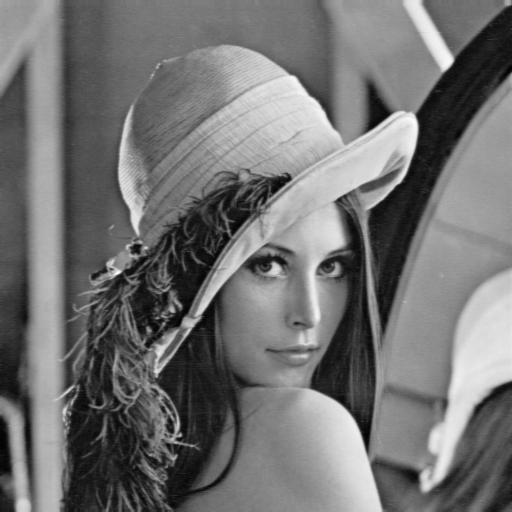
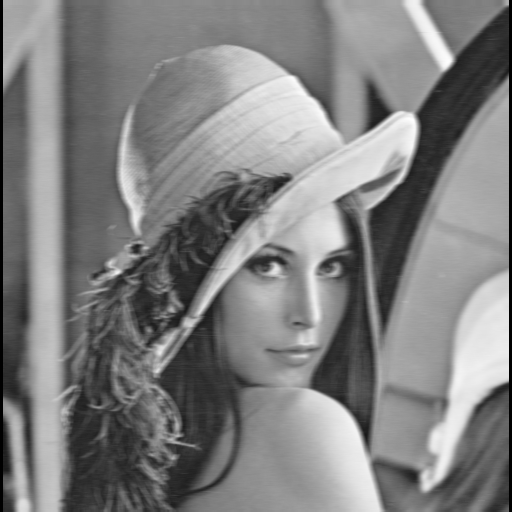
fixed bug in blur

diff --git a/src/image/filter.rs b/src/image/filter.rs
@@ -17,19 +17,23 @@ fn gaussian_1_d_kernel(mean: f64, std: f64, step: i8, end: i8) -> Vec<f64> {
 
 //TODO: normalize both
 
-pub fn gaussian_1_d_convolution_horizontal(image: &mut Image,mean: f64, std: f64) -> () {
+pub fn gaussian_1_d_convolution_horizontal(source: & Image, target: &mut Image ,mean: f64, std: f64) -> () {
     let step: i8 = 1;
-    let end: i8 = 2;
+    let end: i8 = 3;
     let offset = (end as usize)/(step as usize);
     let offset_signed = offset as i32;
 
     let kernel = gaussian_1_d_kernel(mean, std, step, end);
-    let buffer = &mut image.buffer;
+    let buffer = &source.buffer;
     let width = buffer.ncols();
     let height = buffer.nrows();
 
     for y in 0..height {
         for x in offset..width-offset {
+
+
+            //TODO:If outside of filter range copy source values
+
             let mut acc = 0.0;
             for i in (-offset_signed..offset_signed+1).step_by(step as usize){
                 let sample_idx = (x as i32)+i;
@@ -38,40 +42,59 @@ pub fn gaussian_1_d_convolution_horizontal(image: &mut Image,mean: f64, std: f64
                 let kenel_value = kernel[kenel_idx as usize];
                 acc +=sample_value*kenel_value;
             }
-            buffer[(y,x)] = acc;
+            target.buffer[(y,x)] = acc;
         }
 
+
+
     }
+
+   let max =  target.buffer.max();
+   let buffer_itr =  target.buffer.iter_mut();
+   for elem in buffer_itr {
+    *elem = *elem/max;
+   }
+
 
 
 }
 
-pub fn gaussian_1_d_convolution_vertical(image: &mut Image,mean: f64, std: f64) -> () {
+pub fn gaussian_1_d_convolution_vertical(source: & Image, target: &mut Image,mean: f64, std: f64) -> () {
     let step: i8 = 1;
-    let end: i8 = 2;
+    let end: i8 = 3;
     let offset = (end as usize)/(step as usize);
     let offset_signed = offset as i32;
 
     let kernel = gaussian_1_d_kernel(mean, std, step, end);
-    let buffer = &mut image.buffer;
+    let buffer =  &source.buffer;
     let width = buffer.ncols();
     let height = buffer.nrows();
 
     for x in 0..width {
         for y in offset..height-offset {
+
+            
+            //TODO:If outside of filter range copy source values
+
+
             let mut acc = 0.0;
             for i in (-offset_signed..offset_signed+1). step_by(step as usize){
                 let sample_idx = (y as i32)+i;
-                let kenel_idx = i as usize +offset;
+                let kenel_idx = i +offset as i32;
                 let sample_value = buffer.index((sample_idx as usize, x));
-                let kenel_value = kernel[kenel_idx];
+                let kenel_value = kernel[kenel_idx as usize];
                 acc +=sample_value*kenel_value;
             }
-            buffer[(y,x)] = acc;
+            target.buffer[(y,x)] = acc;
         }
 
     }
 
+    let max =  target.buffer.max();
+    let buffer_itr = target.buffer.iter_mut();
+    for elem in buffer_itr {
+     *elem = *elem/max;
+    }
 
 }
 

diff --git a/examples/blur.rs b/examples/blur.rs
@@ -3,7 +3,7 @@ extern crate sift;
 
 use std::path::Path;
 
-use sift::image::{Image,filter};
+use sift::image::{Image,filter, image_encoding::ImageEncoding};
 
 fn main() {
     let image_name = "lenna";
@@ -13,9 +13,13 @@ fn main() {
 
 
     let image = image_rs::open(&Path::new(&image_path)).unwrap().to_luma();
-    let mut frame = Image::from_gray_image(&image);
-    filter::gaussian_1_d_convolution_horizontal(&mut frame, 0.0, 1.0);
-    let new_image = frame.to_image();
+    let frame = Image::from_gray_image(&image);
+    let mut target = Image::empty(frame.buffer.nrows(), frame.buffer.ncols(), ImageEncoding::U8);
+
+    filter::gaussian_1_d_convolution_horizontal(&frame,&mut target, 0.0, 5.5);
+    //filter::gaussian_1_d_convolution_vertical(&frame,&mut target, 0.0, 5.5);
+
+    let new_image = target.to_image();
 
     new_image.save(converted_file_out_path).unwrap();
 }

diff --git a/src/image/mod.rs b/src/image/mod.rs
@@ -18,6 +18,12 @@ pub struct Image {
 }
 
 impl Image {
+
+    pub fn empty(width: usize, height: usize, image_encoding: ImageEncoding) -> Image {
+        let buffer =  DMatrix::<Float>::from_element(height,width,0.0);
+        Image{ buffer, original_encoding: image_encoding}
+    }
+
     pub fn from_matrix(matrix: &DMatrix<Float>, original_encoding: ImageEncoding) -> Image {
         let buffer = matrix.clone();
         Image{ buffer: buffer, original_encoding}
